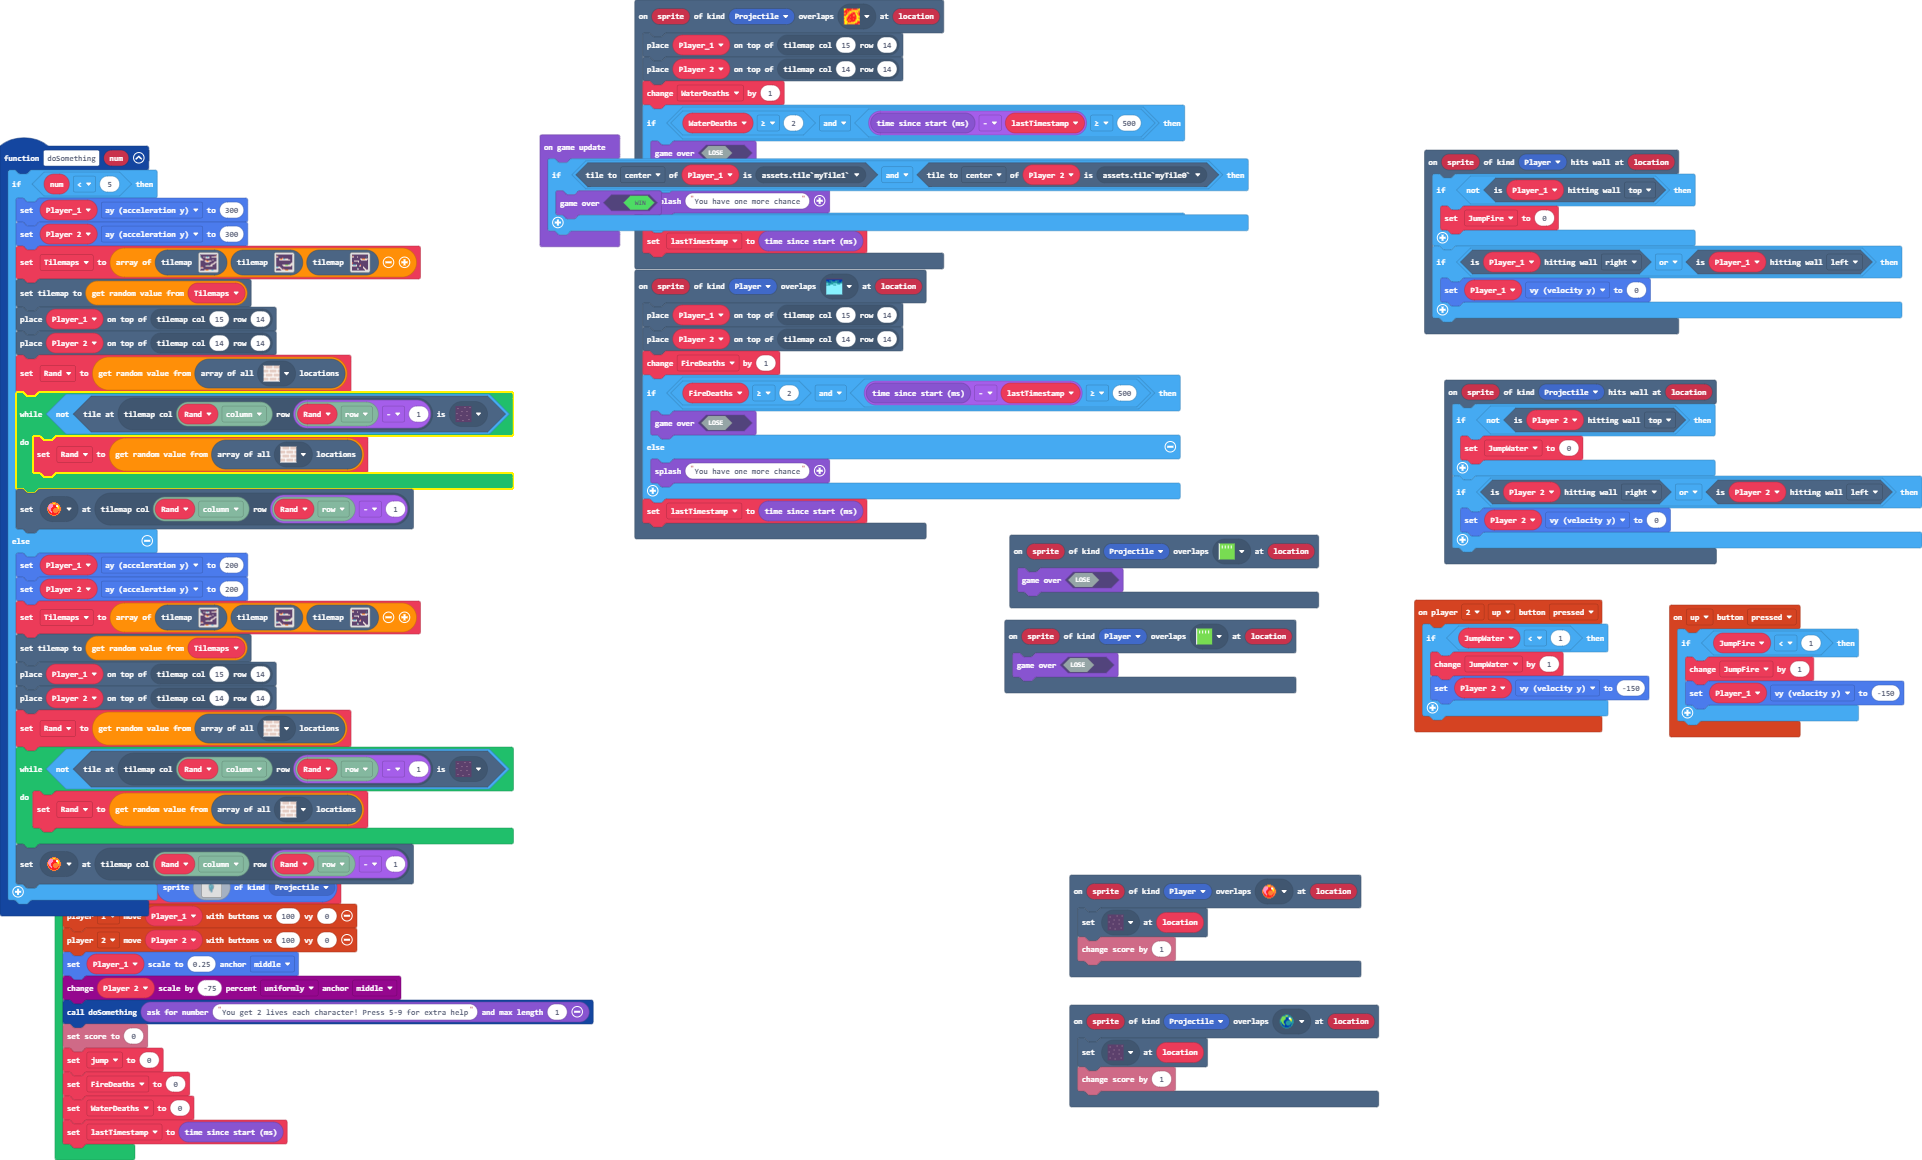
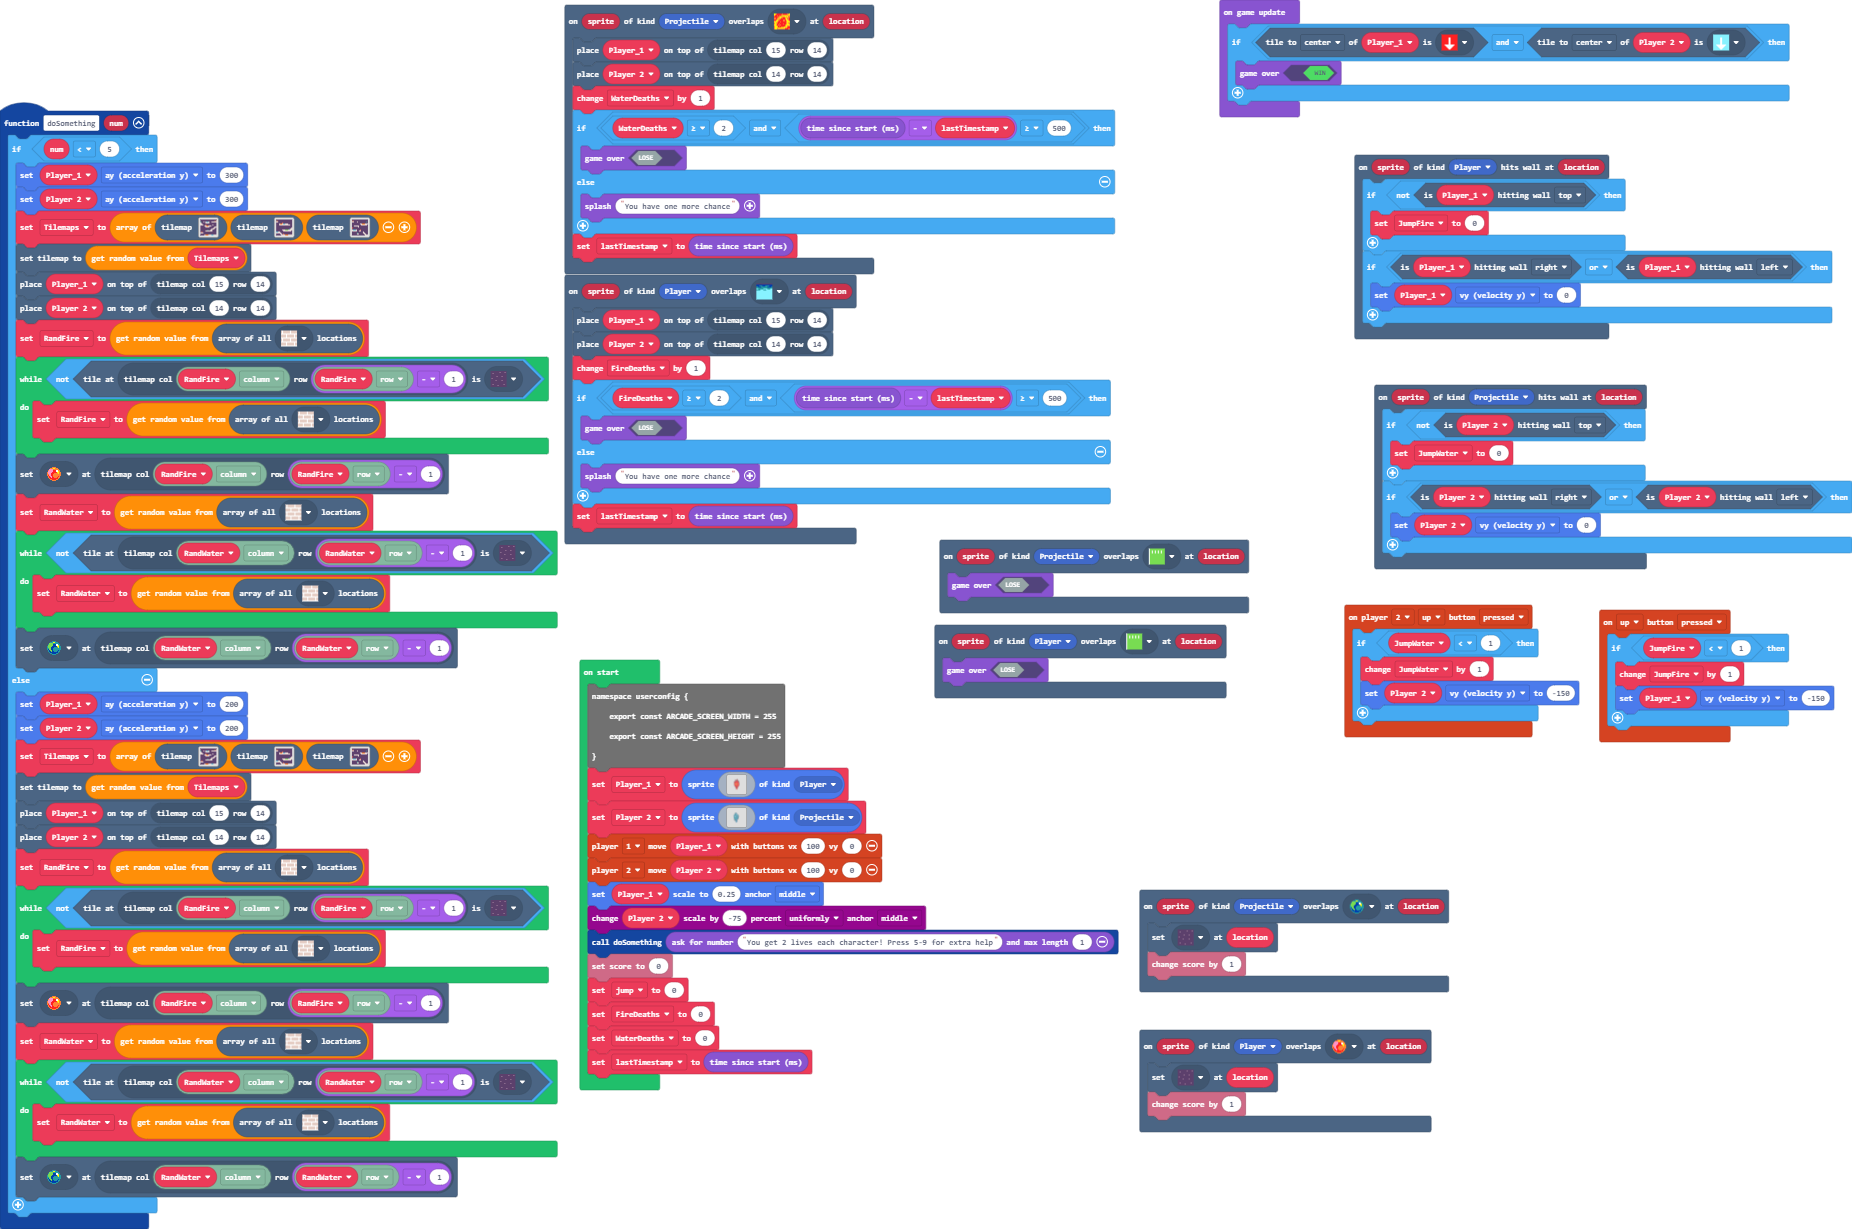
Update main.blocks, main.ts, tilemap.g.jres, tilemap.g.ts

diff --git a/main.ts b/main.ts
@@ -47,11 +47,16 @@ function doSomething (num: number) {
         tiles.setCurrentTilemap(Tilemaps._pickRandom())
         tiles.placeOnTile(Player_1, tiles.getTileLocation(15, 14))
         tiles.placeOnTile(Player_2, tiles.getTileLocation(14, 14))
-        Rand = tiles.getTilesByType(sprites.builtin.brick)._pickRandom()
-        while (!(tiles.tileAtLocationEquals(tiles.getTileLocation(tiles.locationXY(Rand, tiles.XY.column), tiles.locationXY(Rand, tiles.XY.row) - 1), assets.tile`myTile`))) {
-            Rand = tiles.getTilesByType(sprites.builtin.brick)._pickRandom()
+        RandFire = tiles.getTilesByType(sprites.builtin.brick)._pickRandom()
+        while (!(tiles.tileAtLocationEquals(tiles.getTileLocation(tiles.locationXY(RandFire, tiles.XY.column), tiles.locationXY(RandFire, tiles.XY.row) - 1), assets.tile`myTile`))) {
+            RandFire = tiles.getTilesByType(sprites.builtin.brick)._pickRandom()
         }
-        tiles.setTileAt(tiles.getTileLocation(tiles.locationXY(Rand, tiles.XY.column), tiles.locationXY(Rand, tiles.XY.row) - 1), sprites.dungeon.collectibleRedCrystal)
+        tiles.setTileAt(tiles.getTileLocation(tiles.locationXY(RandFire, tiles.XY.column), tiles.locationXY(RandFire, tiles.XY.row) - 1), sprites.dungeon.collectibleRedCrystal)
+        RandWater = tiles.getTilesByType(sprites.builtin.brick)._pickRandom()
+        while (!(tiles.tileAtLocationEquals(tiles.getTileLocation(tiles.locationXY(RandWater, tiles.XY.column), tiles.locationXY(RandWater, tiles.XY.row) - 1), assets.tile`myTile`))) {
+            RandWater = tiles.getTilesByType(sprites.builtin.brick)._pickRandom()
+        }
+        tiles.setTileAt(tiles.getTileLocation(tiles.locationXY(RandWater, tiles.XY.column), tiles.locationXY(RandWater, tiles.XY.row) - 1), sprites.dungeon.collectibleBlueCrystal)
     } else {
         Player_1.ay = 200
         Player_2.ay = 200
@@ -59,11 +64,16 @@ function doSomething (num: number) {
         tiles.setCurrentTilemap(Tilemaps._pickRandom())
         tiles.placeOnTile(Player_1, tiles.getTileLocation(15, 14))
         tiles.placeOnTile(Player_2, tiles.getTileLocation(14, 14))
-        Rand = tiles.getTilesByType(sprites.builtin.brick)._pickRandom()
-        while (!(tiles.tileAtLocationEquals(tiles.getTileLocation(tiles.locationXY(Rand, tiles.XY.column), tiles.locationXY(Rand, tiles.XY.row) - 1), assets.tile`myTile`))) {
-            Rand = tiles.getTilesByType(sprites.builtin.brick)._pickRandom()
+        RandFire = tiles.getTilesByType(sprites.builtin.brick)._pickRandom()
+        while (!(tiles.tileAtLocationEquals(tiles.getTileLocation(tiles.locationXY(RandFire, tiles.XY.column), tiles.locationXY(RandFire, tiles.XY.row) - 1), assets.tile`myTile`))) {
+            RandFire = tiles.getTilesByType(sprites.builtin.brick)._pickRandom()
         }
-        tiles.setTileAt(tiles.getTileLocation(tiles.locationXY(Rand, tiles.XY.column), tiles.locationXY(Rand, tiles.XY.row) - 1), sprites.dungeon.collectibleRedCrystal)
+        tiles.setTileAt(tiles.getTileLocation(tiles.locationXY(RandFire, tiles.XY.column), tiles.locationXY(RandFire, tiles.XY.row) - 1), sprites.dungeon.collectibleRedCrystal)
+        RandWater = tiles.getTilesByType(sprites.builtin.brick)._pickRandom()
+        while (!(tiles.tileAtLocationEquals(tiles.getTileLocation(tiles.locationXY(RandWater, tiles.XY.column), tiles.locationXY(RandWater, tiles.XY.row) - 1), assets.tile`myTile`))) {
+            RandWater = tiles.getTilesByType(sprites.builtin.brick)._pickRandom()
+        }
+        tiles.setTileAt(tiles.getTileLocation(tiles.locationXY(RandWater, tiles.XY.column), tiles.locationXY(RandWater, tiles.XY.row) - 1), sprites.dungeon.collectibleBlueCrystal)
     }
 }
 scene.onOverlapTile(SpriteKind.Player, sprites.dungeon.hazardWater, function (sprite, location) {
@@ -89,7 +99,8 @@ scene.onOverlapTile(SpriteKind.Player, sprites.dungeon.collectibleRedCrystal, fu
     tiles.setTileAt(location, assets.tile`myTile`)
     info.changeScoreBy(1)
 })
-let Rand: tiles.Location = null
+let RandWater: tiles.Location = null
+let RandFire: tiles.Location = null
 let Tilemaps: tiles.TileMapData[] = []
 let JumpWater = 0
 let JumpFire = 0

diff --git a/tilemap.g.ts b/tilemap.g.ts
@@ -12,6 +12,10 @@ namespace myTiles {
     export const tile3 = image.ofBuffer(hex``);
     //% fixedInstance jres blockIdentity=images._tile
     export const tile4 = image.ofBuffer(hex``);
+    //% fixedInstance jres blockIdentity=images._tile
+    export const tile5 = image.ofBuffer(hex``);
+    //% fixedInstance jres blockIdentity=images._tile
+    export const tile6 = image.ofBuffer(hex``);
 
     helpers._registerFactory("tilemap", function(name: string) {
         switch(helpers.stringTrim(name)) {
@@ -426,6 +430,10 @@ namespace myTiles {
             case "tile2":return tile2;
             case "tile3":return tile3;
             case "tile4":return tile4;
+            case "myTile0":
+            case "tile5":return tile5;
+            case "myTile1":
+            case "tile6":return tile6;
         }
         return null;
     })
